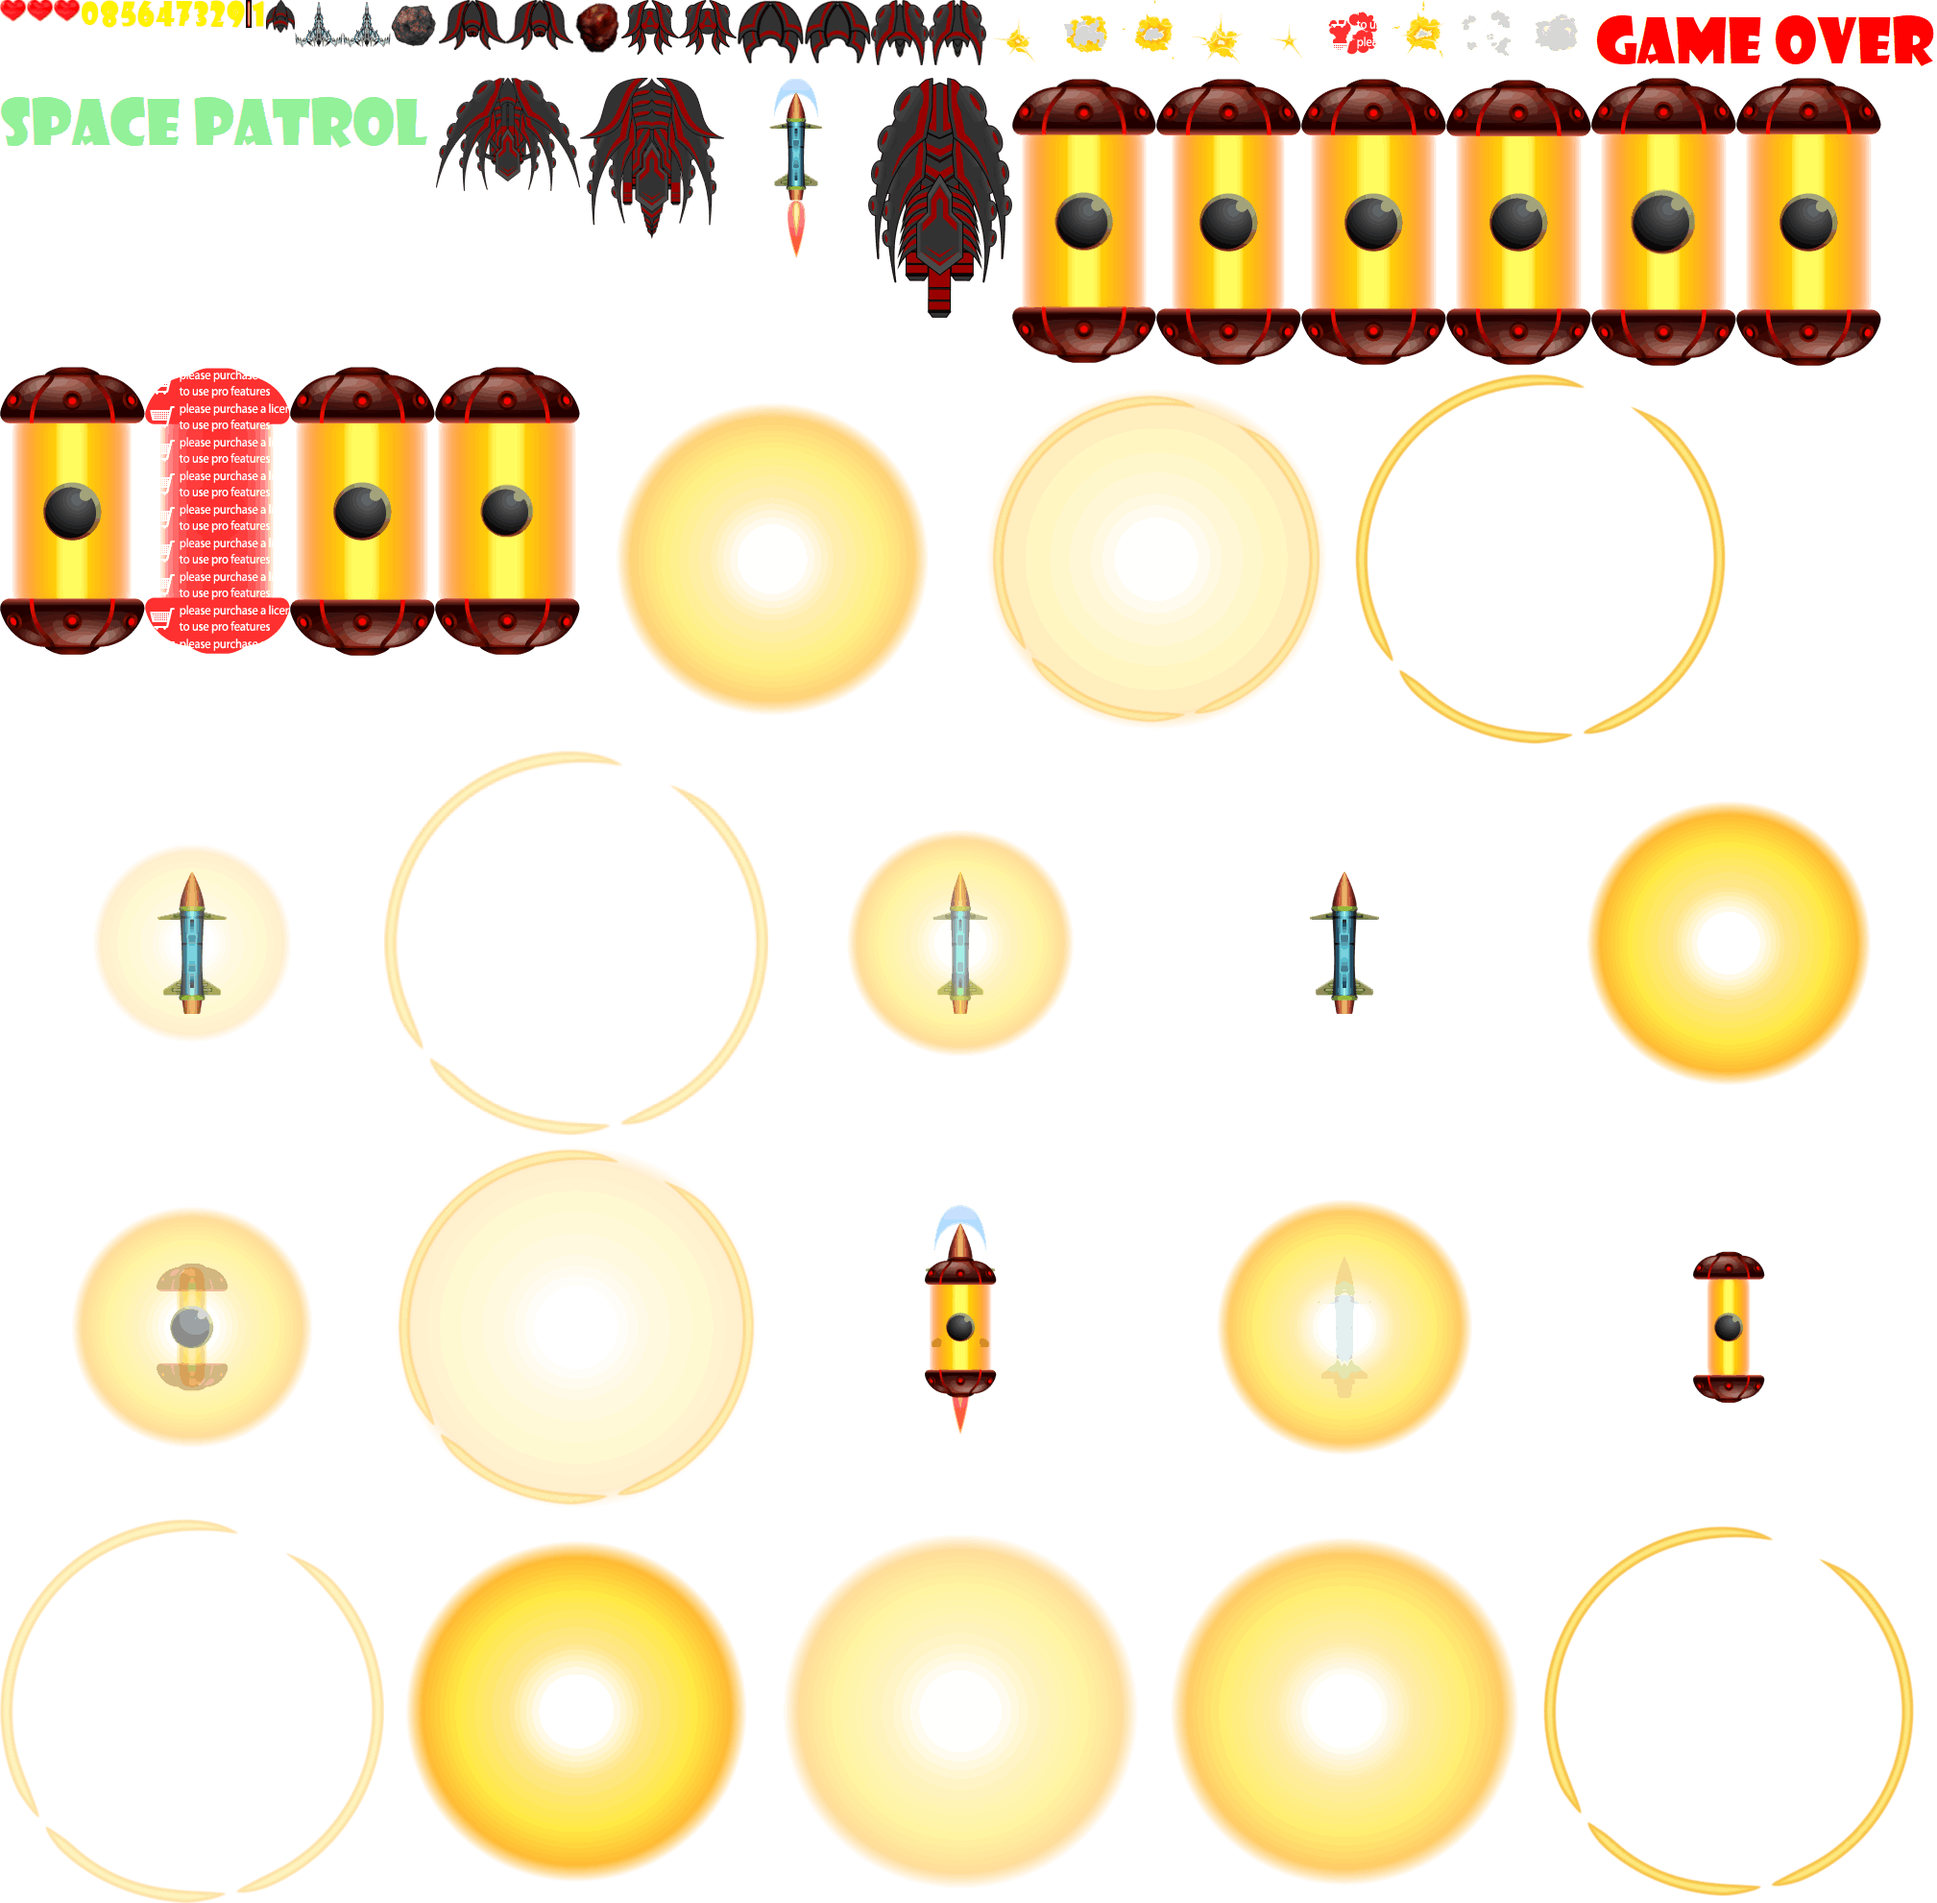
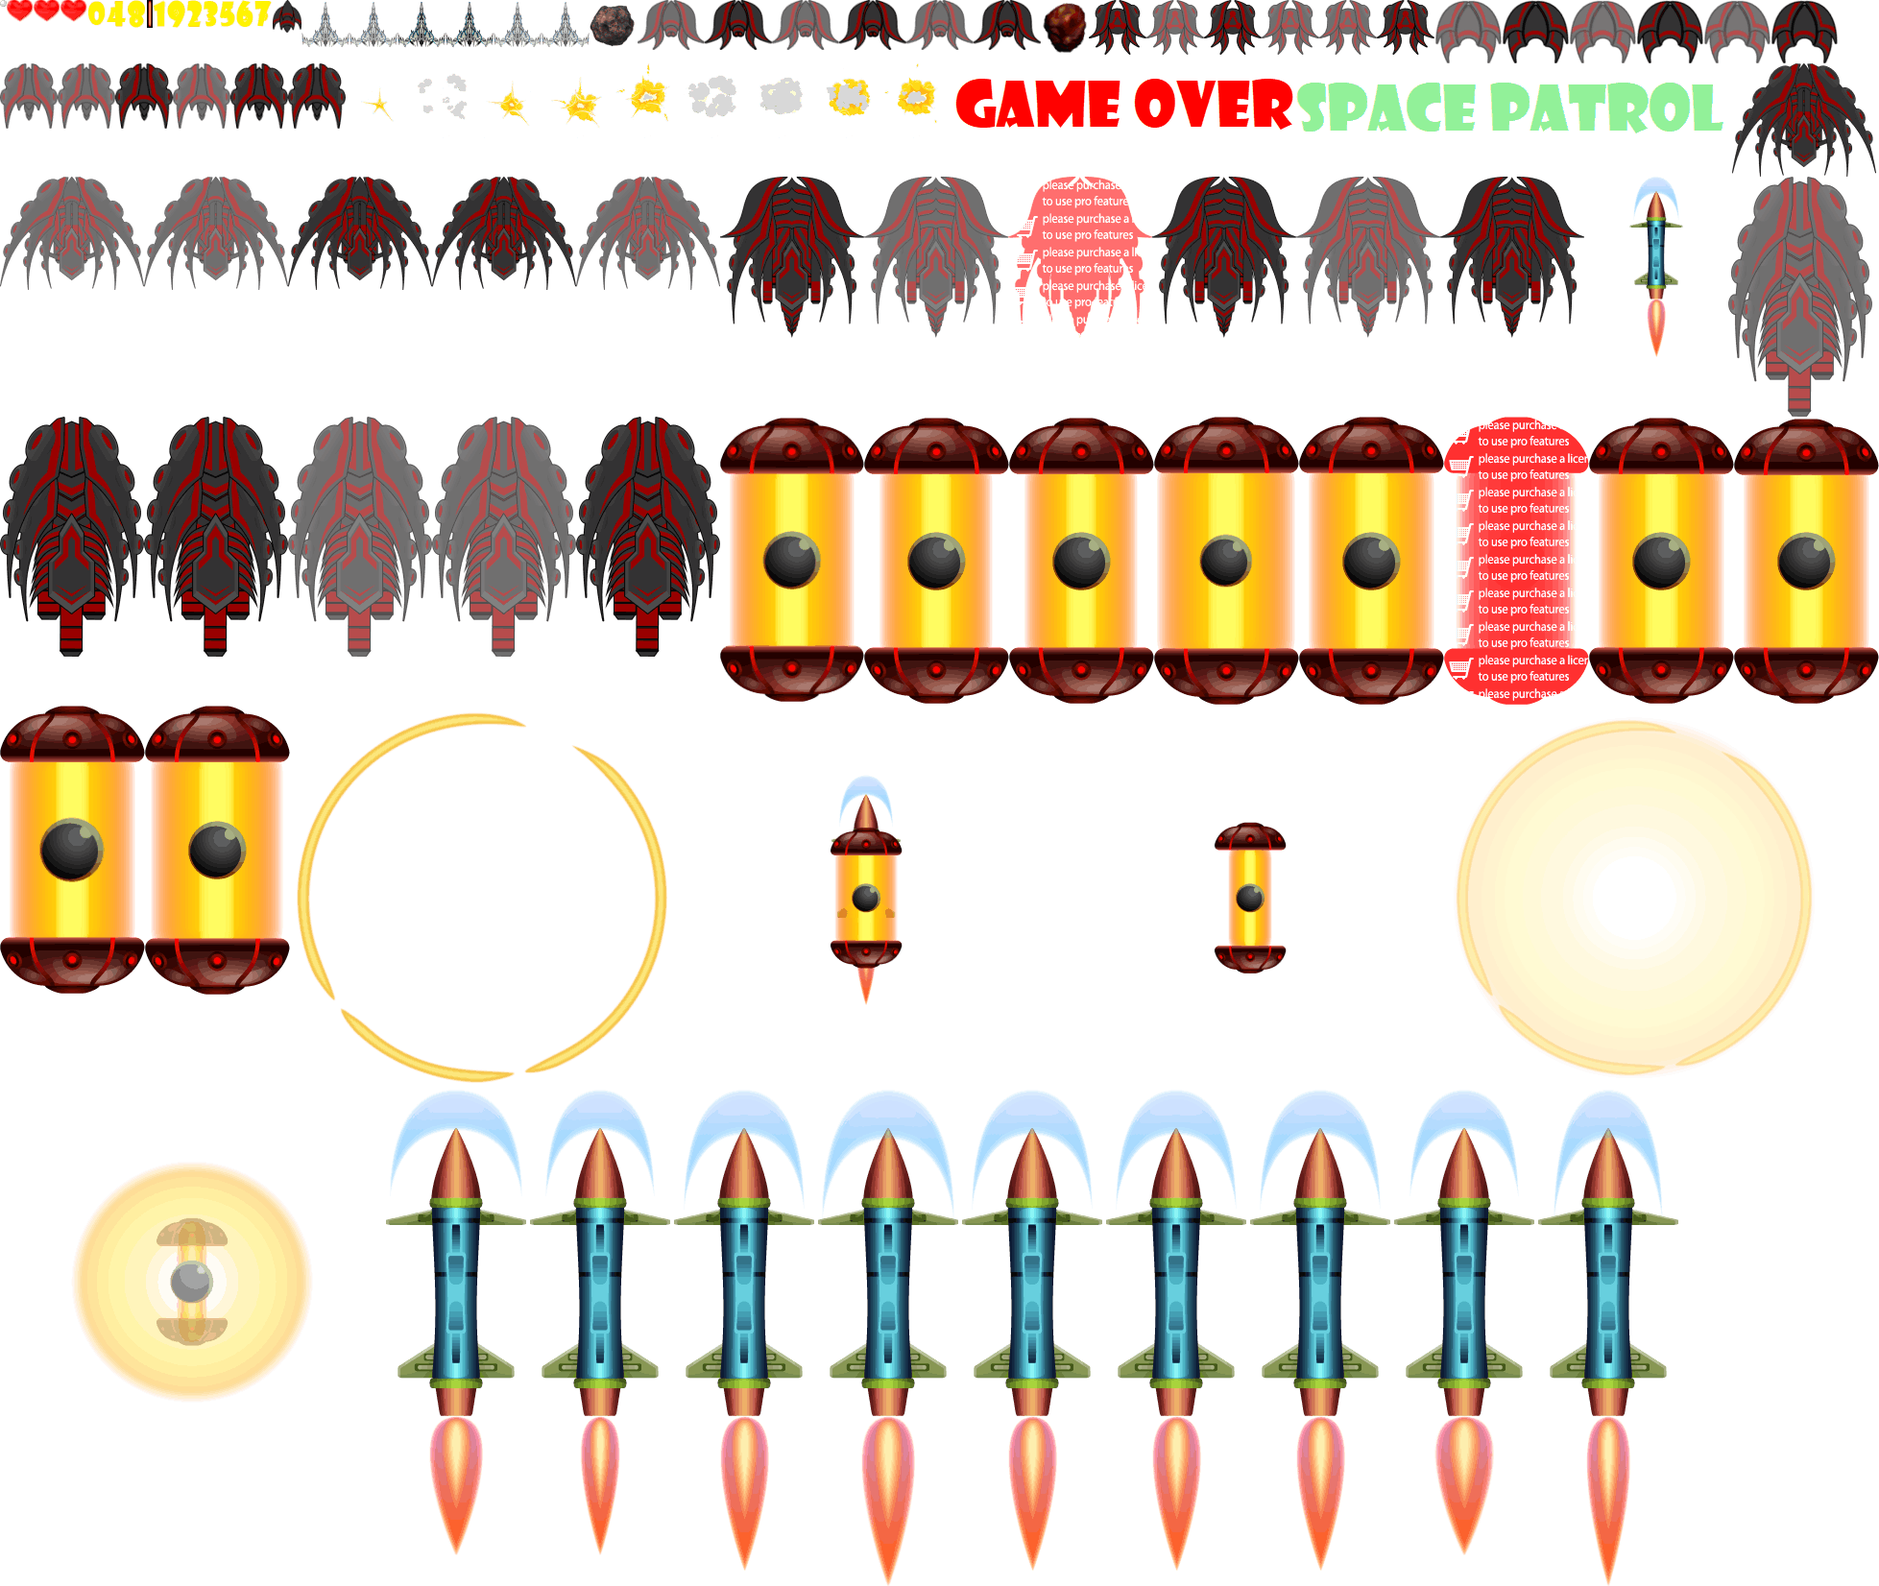
Hit animations, splash, stars, menu changes
Added animations for hit enemies, player, and bosses.
Splash
Buttons in menu
Star field

diff --git a/SpacePatrol/js/scenes/GameOver.js b/SpacePatrol/js/scenes/GameOver.js
@@ -41,13 +41,13 @@
         var me = this;
         playBtn = new ui.SimpleButton('Play Again');
         playBtn.on('click', this.playAgain, this);
-        playBtn.setButton({upColor:'#d2354c', color:'#FFF', borderColor:'#FFF', overColor:'#900'});
+        playBtn.setButton({upColor:'#66ff66', color:'#FFF', borderColor:'#FFF', overColor:'#009933'});
         playBtn.x = playBtnPoint.x;
         playBtn.y = playBtnPoint.y;
         this.addChild(playBtn);
         menuBtn = new ui.SimpleButton('Main Menu');
         menuBtn.on('click', this.mainMenu, this);
-        menuBtn.setButton({upColor:'#d2354c', color:'#FFF', borderColor:'#FFF', overColor:'#900'});
+        menuBtn.setButton({upColor:'#66ff66', color:'#FFF', borderColor:'#FFF', overColor:'#009933'});
         menuBtn.x = menuBtnPoint.x;
         menuBtn.y = menuBtnPoint.y;
         this.addChild(menuBtn);

diff --git a/SpacePatrol/js/scenes/GameMenu.js b/SpacePatrol/js/scenes/GameMenu.js
@@ -18,7 +18,7 @@
         title.regX = title.getBounds().width / 2;
         title.x = screen_width / 2;
         title.y = -50;
-        createjs.Tween.get(title).to({y: titleYPos}, 5000)
+        createjs.Tween.get(title).to({y: titleYPos}, 2000)
             .call(this.bringTitle, null, this);
         this.addChild(title);
     }
@@ -29,7 +29,7 @@
         this.playBtn.x = canvas.width / 2;
         this.playBtn.y = 400;
         this.playBtn.alpha = 0;
-        this.playBtn.setButton({upColor: '#d2354c', color: '#FFF', borderColor: '#FFF', overColor: '#900'});
+        this.playBtn.setButton({upColor: '#66ff66', color: '#FFF', borderColor: '#FFF', overColor: '#009933'});
         this.addChild(this.playBtn);
     }
     p.bringTitle = function (e) {

diff --git a/SpacePatrol/js/scenes/Game.js b/SpacePatrol/js/scenes/Game.js
@@ -71,7 +71,7 @@
         var numStars = 20;
         for (i = 0; i < numStars; i++) {
             //star = new createjs.Sprite(spritesheet, 'star3');
-            star = new createjs.Sprite(spritesheet, 'life');
+            star = new createjs.Sprite(spritesheet, 'star');
             star.speed = Utils.getRandomNumber(100, 200);
             star.x = Math.random() * screen_width;
             star.y = Math.random() * screen_height;

diff --git a/SpacePatrol/js/SpacePatrol.js b/SpacePatrol/js/SpacePatrol.js
@@ -27,7 +27,7 @@
         this.preloadAssets()
     }
     p.preloadAssets = function () {
-        this.preloader = new ui.Preloader('#d2354c', '#FFF');
+        this.preloader = new ui.Preloader('#66ff66', '#FFF');
         this.preloader.x = (canvas.width / 2) - (this.preloader.width / 2);
         this.preloader.y = (canvas.height / 2) - (this.preloader.height / 2);
         stage.addChild(this.preloader);
